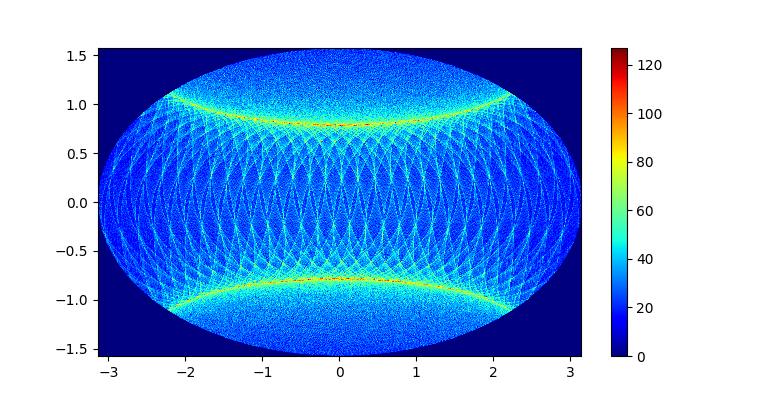
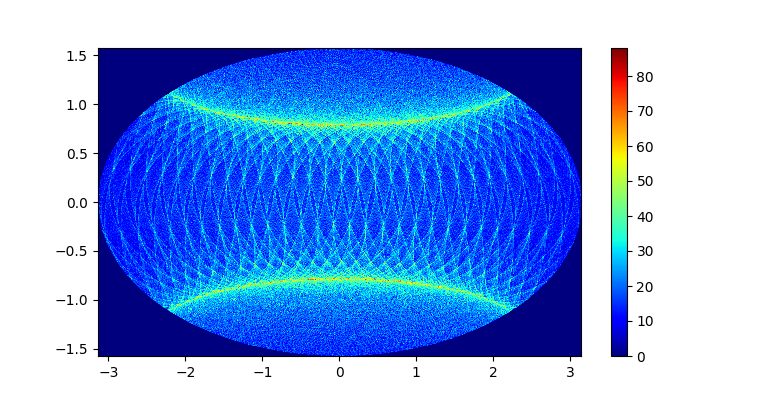
Updates README

diff --git a/scanning_law.py b/scanning_law.py
@@ -102,7 +102,7 @@ def plot(filename):
 
     print "Plotting histogram"
     plt.figure(figsize=(7.8, 4))
-    plt.hist2d(plot_density_x, plot_density_y, (1200, 600), cmap=plt.cm.jet)
+    plt.hist2d(plot_density_x, plot_density_y, (1200, 940), cmap=plt.cm.jet)
     plt.colorbar()
     plt.xlim(-np.pi, np.pi)
     plt.ylim(-np.pi/2, np.pi/2)

diff --git a/README.md b/README.md
@@ -2,4 +2,35 @@
 
 Simple simulations of ESA's Gaia star mapping satellite.
 
-![Sky coverage of Gaia](results.png?raw=true "Sky coverage of Gaia")
+## Nominal Scanning Law 
+
+The Gaia satellite orbits the L<sub>2</sub> Lagrange point of Earth. It scans the sky using a clever combination of three rotations:
+- a rotation Ω (spin) around an axis perpendicular to the lines of sight of its two telescopes, with a period of 6 hours;
+- a precession ν of this rotation axis around the line between the spacecraft and the Sun, with a period of 63 days;
+- the yearly motion of the Sun as seen from Earth (ecliptic latitude β<sub>s</sub> = 0, ecliptic latitude λ<sub>s</sub>).
+
+The combination of these rotations yields a full coverage of the sky: this is called the GAIA nominal scanning law.
+
+### Calculation
+Lennart Lindegren's technical note 
+[Calculating the GAIA Nominal Scanning law](http://www.astro.lu.se/~lennart/Astrometry/TN/Gaia-LL-035-20010219-Calculating-the-GAIA-Nominal-Scanning-Law.pdf)
+describes a method to crunch the numbers. It involves the integration of two coupled differential equations that relate 
+the spin phase Ω(t) and the precession phase ν(t) with their derivatives. The nominal longitude of the Sun λ<sub>s</sub>(t) 
+is considered a given, and can be approximated using the first terms of a series expansion of Kepler's equation. 
+
+So given the apparent solar longitude λ<sub>s</sub>, the angle between the direction to the Sun and the precession axis ξ,
+the precession rate S, the spin rate ω, and the initial values Ω<sub>0</sub> and ν<sub>0</sub>, the scanning law is completely
+determined.
+
+The values of Ω(t) and ν(t) can be used to compute the direction of the line of sight; this is done quite easily using quaternions.
+
+
+### Results
+When the instantaneous scan directions are projected using an Aitoff projection, and binned in 1200 by 940 bins, this is 
+the resulting density map (using ecliptic coordinates):
+![GAIA Nominal Scanning Law: sky coverage of Gaia](results.png?raw=true "The GAIA Nominal Scanning Law: sky coverage of Gaia")
+Figure 1: The GAIA Nominal Scanning Law: sky coverage of Gaia.
+
+### Limitations
+Formally, the data should be binned before projecting, so this is only an approximation. Furthermore, the field of view of the
+imaging telescopes is not taken into account. And of course the solar longitude is only an approximation.
